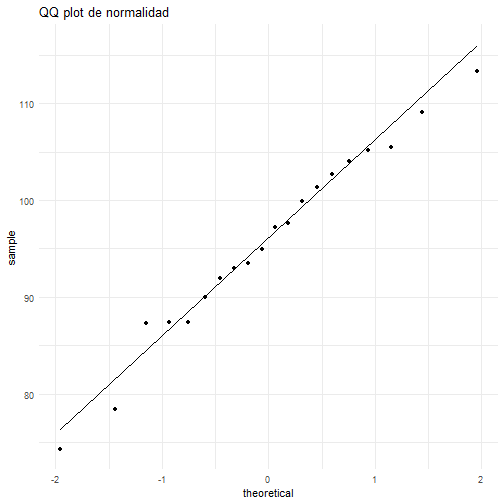
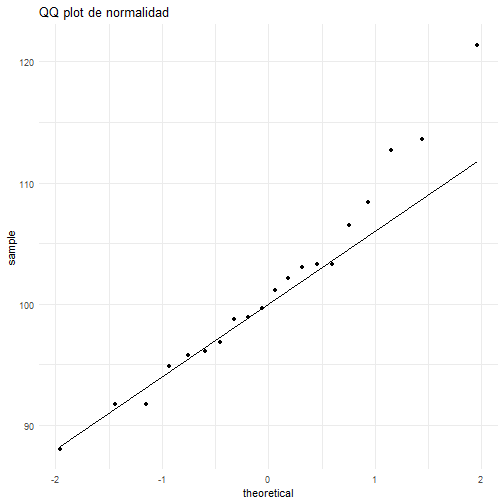
Cambio orden intro

diff --git a/index.html b/index.html
@@ -340,7 +340,7 @@ mean(x)
 ```
 
 ```
-[1] 120.3795
+[1] 119.0935
 ```
 
 ```r
@@ -348,7 +348,7 @@ sd(x)
 ```
 
 ```
-[1] 10.57476
+[1] 9.362974
 ```
 
 
@@ -710,7 +710,7 @@ shapiro.test(x.normal)
 	Shapiro-Wilk normality test
 
 data:  x.normal
-W = 0.97979, p-value = 0.9313
+W = 0.96147, p-value = 0.5736
 ```
 
 
@@ -750,7 +750,7 @@ ic
 ```
 
 ```
-[1]  91.05105 100.35548
+[1]  97.57214 105.21980
 ```
 
 ---
@@ -769,13 +769,13 @@ t.test(x.normal)
 	One Sample t-test
 
 data:  x.normal
-t = 43.057, df = 19, p-value &lt; 2.2e-16
+t = 55.5, df = 19, p-value &lt; 2.2e-16
 alternative hypothesis: true mean is not equal to 0
 95 percent confidence interval:
-  91.05105 100.35548
+  97.57214 105.21980
 sample estimates:
 mean of x 
- 95.70326 
+  101.396 
 ```
 
 ---
@@ -792,7 +792,7 @@ ci(x.normal)
 
 ```
   Estimate   CI lower   CI upper Std. Error 
- 95.703263  91.051045 100.355480   2.222725 
+101.395970  97.572137 105.219803   1.826942 
 ```
 
 
